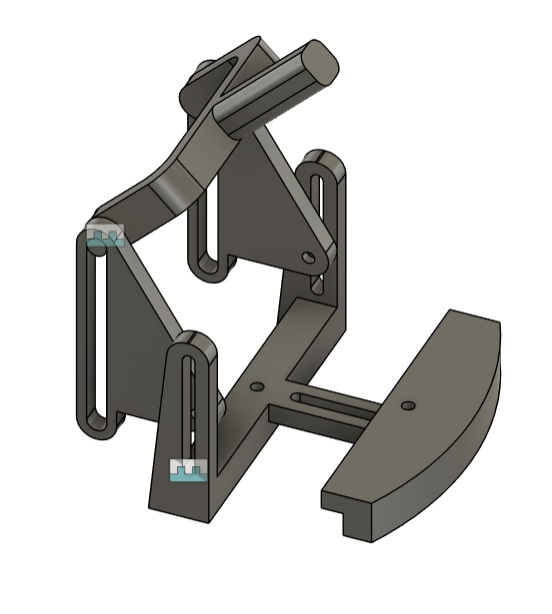
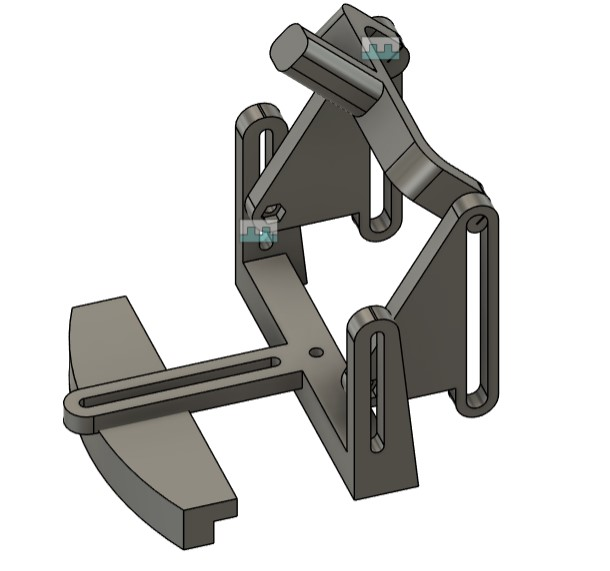
File reorg, faceter edits 2

diff --git a/content/tempeh-forever.md b/content/tempeh-forever.md
@@ -10,7 +10,7 @@ Beans have a special place in my heart, and I have been trying to eat more of th
 
 ####Process
 
-**Tempeh**
+**Tempeh**<br>
 I conceived of this project as a solution to multiple goals at once, and I imagined a system that would produce tempeh or other bean ferments in a relatively procedural and predictable way, and then give me a dataset that explained the progress. Here are the steps:
     
 <ol>
@@ -20,7 +20,7 @@ I conceived of this project as a solution to multiple goals at once, and I imagi
   <li>A Python visualization.</li>
 </ol>
 
-**Controller**
+**Controller**<br>
 I used a pi pico 4W running a Micropython [script](https://github.com/DavidHall248/tempeh-forever/blob/main/main.py) as the incubator controller. It connects to a MAX31865 PT1000 temperature probe, which returns temperature over SPI. When the temperature is too low, a transistor drives a relay, which turns on the heating element, which is an old incandescent lightbulb. When the temperature hits the target, the heat relay turns off. When the temperature gets too high, a separate relay will turn on a fan that circulates air through incubator to cool it back down. A small OLED screen displays target temperature, actual temperature, and the status of wifi and MQTT. Two buttons next to the screen let me increase and decrease the target temperature. A third button lets me toggle MQTT transfer, in case I am debugging and don't want data uploaded.
 
 Screen:
@@ -36,7 +36,7 @@ Circuit in real life:
 <img src="{static}/images/tempeh_forever/tempeh_incubator_wires.png" alt="Circuit IRL" width="600">
 
 
-**Assembly**
+**Assembly**<br>
 The incubator controller is housed in an old tin I had. I connected the relays to a standard power outlet so my heating and cooling devices could be switched out if needed, and the screen is built into the lid. 
 
 I 3D printed several parts, mostly for aesthetics, and these include:
@@ -54,7 +54,7 @@ The box I am using for the incubator itself is an old Tupperware. The tray of be
 
 <img src="{static}/images/tempeh_forever/tempeh_incubator.png" alt="Incubator" width="600">
 
-**MQTT**
+**MQTT**<br>
 MQTT is a lightweight messaging protocol often used in IoT devices that works via a system of topics and subscriptions. To send data, I am subscribing to three topics:
 tempeh/events/heat - Messaged when the heat is toggled
 tempeh/events/fan - Messaged when the fan is toggled
@@ -66,7 +66,7 @@ Data are sent from the pico to a separate raspberry pi that acts as an [MQTT bro
 
 The data is read from the MQTT message, converted into a SQL INSERT query, and then sent to a Neon server where I have [created](https://github.com/DavidHall248/tempeh-forever/blob/main/create_tables.py) event and measurement tables. I had to use the MQTT broker because I couldn't find a reliable/compact SQL library for picos. 
 
-**Everything At Once!!**
+**Everything At Once!!**<br>
 Attempt 1: I soaked garbanzo beans for ~12 hours, and then tried to massage the hulls off because the tempeh mold can't penetrate hulls. I couldn't really get the hulls off and none of the methods mentioned online helped at all. So I made hummus!!
 
 Attempt 2: This time I used 2 lb. of chana dal from an Indian market because it comes already hulled and split. I cooked them, without soaking, until they were slightly less than al dente, which was ~18 minutes. I let them cool and dry, then added 3 Tbsp. of tempeh starter. I put it in the tray, then sealed the tray with foil and poked holes in the foil for airflow. I put it in the incubator at 90 F. About 9 hours later, I notice the lightbulb has been on in the incubator for a very long time. The controller screen appears frozen, and I realize the controller has glitched and stopped running with the lightbulb on. When I restart the controller, it reads 140 degrees. I let it keep running overnight out of curiosity, even though 140 is definitely enough to kill the mold, and it looked like this in the morning, with an obvious zone of heat death in the bottom right:
@@ -85,12 +85,12 @@ And here is a tempeh reuben I made with it:
 
 <img src="{static}/images/tempeh_forever/tempeh_reuben.png" alt="Reuben" width="300">
 
-**Data**
+**Data**<br>
 The last step, and the reason I built all the data infrastructure, is that I wanted to see the usage of the relays over time. I've made incubators in the past, but they all used off-the-shelf temperature controllers that gave me no control over signaling. I wrote a [script](https://github.com/DavidHall248/tempeh-forever/blob/main/charts.py) that converts the on/off event data generated by the controller into timeseries data that shows the % of each hour a relay spent turned on. Then I plotted that against the temperature.
 
 <img src="{static}/images/tempeh_forever/tempeh_graph.png" alt="Graph">
 
 Great! We can clearly see how the tempeh needs additional heat in the beginning, then starts generating sufficient heat of its own, and finally needs to be cooled down by the fan. Success!
 
-**Conclusion**
+**Conclusion**<br>
 This was a long project that became way more complicated than I expected, but I'm happy that it's done and that the tempeh coming out of it is good quality. There are a few tweaks I will probably make, such as cooking the beans slightly longer and wrapping them in a muslin cloth to regulate humidity. There is also quite a bit of debate about the best temperature to incubate the tempeh mold at. I have been incubating at a safe middle ground of 90°F, but some people swear you can go as high as 97°F, and the colonization will be even more vigorous. I am hoping to also use this incubator to ferment other things, such as koji for miso/shoyu.

diff --git a/content/frame-bag.md b/content/frame-bag.md
@@ -5,12 +5,10 @@ Category: projects
 Tags: sewing
 Summary:          
 
-####Concept
-
+####Concept<br>
 I bought a bunch of random scraps of tech/outdoor fabrics at a fabric sale recently, and decided to make a frame bag for the inside of my bike's frame. 
 
-####Process
-
+####Process<br>
 The first step was to cut out a cardboard template that fit inside the frame.
 <img src="{static}/images/bikeframe_bag/bikeframe_stencil.jpg" alt="Template" width="300">
 

diff --git a/content/pottery-faceter.md b/content/pottery-faceter.md
@@ -39,6 +39,7 @@ All the tracks and slots were designed to fit some small machine screws I bought
 <br>
 <img src="{static}/images/pottery_faceter/slicer_assembled.jpg" width="300">
 
+For the wire I used some old steel wire with very tiny grub screw wire clamps from aliexpress on either end.
 
 I made a 7-sided polygon template to print out and place on the wheel and guide placement.
 PICTURE HERE